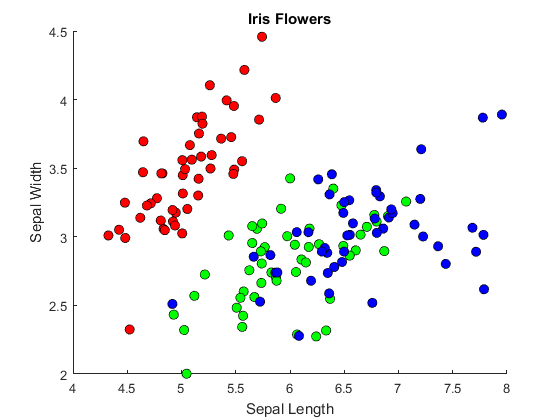
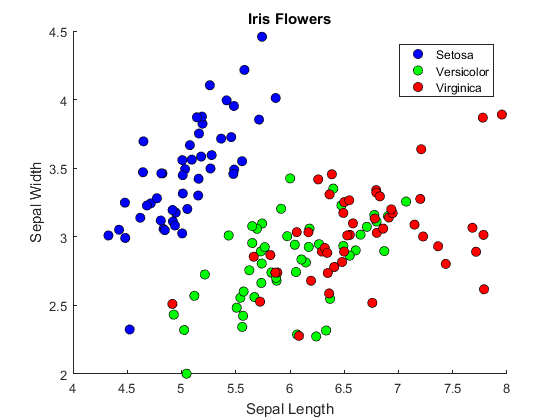
added some more to 4c and d

diff --git a/html/report.html b/html/report.html
@@ -6,7 +6,7 @@
    <!--
 This HTML was auto-generated from MATLAB code.
 To make changes, update the MATLAB code and republish this document.
-      --><title>2018 - CAB420 - Machine Learning</title><meta name="generator" content="MATLAB 9.1"><link rel="schema.DC" href="http://purl.org/dc/elements/1.1/"><meta name="DC.date" content="2018-04-15"><meta name="DC.source" content="report.m"><style type="text/css">
+      --><title>2018 - CAB420 - Machine Learning</title><meta name="generator" content="MATLAB 9.1"><link rel="schema.DC" href="http://purl.org/dc/elements/1.1/"><meta name="DC.date" content="2018-04-16"><meta name="DC.source" content="report.m"><style type="text/css">
 html,body,div,span,applet,object,iframe,h1,h2,h3,h4,h5,h6,p,blockquote,pre,a,abbr,acronym,address,big,cite,code,del,dfn,em,font,img,ins,kbd,q,s,samp,small,strike,strong,sub,sup,tt,var,b,u,i,center,dl,dt,dd,ol,ul,li,fieldset,form,label,legend,table,caption,tbody,tfoot,thead,tr,th,td{margin:0;padding:0;border:0;outline:0;font-size:100%;vertical-align:baseline;background:transparent}body{line-height:1}ol,ul{list-style:none}blockquote,q{quotes:none}blockquote:before,blockquote:after,q:before,q:after{content:'';content:none}:focus{outine:0}ins{text-decoration:none}del{text-decoration:line-through}table{border-collapse:collapse;border-spacing:0}
 
 html { min-height:100%; margin-bottom:1px; }
@@ -262,35 +262,36 @@ title(<span class="string">'Iris Flowers'</span>)
 xlabel(<span class="string">'Sepal Length'</span>)
 ylabel(<span class="string">'Sepal Width'</span>)
 hold <span class="string">on</span>
-plot(X(Y==0,1), X(Y==0,2), <span class="string">'ko'</span>, <span class="string">'markersize'</span>,7, <span class="string">'markerfacecolor'</span>, <span class="string">'red'</span>);
+plot(X(Y==0,1), X(Y==0,2), <span class="string">'ko'</span>, <span class="string">'markersize'</span>,7, <span class="string">'markerfacecolor'</span>, <span class="string">'blue'</span>);
 plot(X(Y==1,1), X(Y==1,2), <span class="string">'ko'</span>, <span class="string">'markersize'</span>,7, <span class="string">'markerfacecolor'</span>, <span class="string">'green'</span>);
-plot(X(Y==2,1), X(Y==2,2), <span class="string">'ko'</span>, <span class="string">'markersize'</span>,7, <span class="string">'markerfacecolor'</span>, <span class="string">'blue'</span>);
+plot(X(Y==2,1), X(Y==2,2), <span class="string">'ko'</span>, <span class="string">'markersize'</span>,7, <span class="string">'markerfacecolor'</span>, <span class="string">'red'</span>);
+legend(<span class="string">'Setosa'</span>, <span class="string">'Versicolor'</span>, <span class="string">'Virginica'</span>)
 hold <span class="string">off</span>
-</pre><img vspace="5" hspace="5" src="report_10.png" alt=""> <p><b>(b) Use the provided knnClassify class to learn a 1-nearest-neighbor predictor.</b></p><pre class="codeinput">k = 1
+</pre><img vspace="5" hspace="5" src="report_10.png" alt=""> <p><b>(b) Use the provided knnClassify class to learn a 1-nearest-neighbor predictor.</b></p><pre class="codeinput">k = 1;
 nnlearner = knnClassify(k, X, Y);
 class2DPlot(nnlearner, X, Y);
 title(string(k) + <span class="string">'NN Classifier'</span>);
 xlabel(<span class="string">'Sepal Length'</span>);
 ylabel(<span class="string">'Sepal Width '</span>);
-</pre><pre class="codeoutput">
-k =
-
-     1
-
-</pre><img vspace="5" hspace="5" src="report_11.png" alt=""> <p><b>(c) Do the same thing for several values of k (say, [1, 3, 10, 30]) and comment on their appearance.</b></p><pre class="codeinput">ks = [1, 3, 10, 30];
+legend(<span class="string">'Setosa'</span>, <span class="string">'Versicolor'</span>, <span class="string">'Virginica'</span>)
+</pre><img vspace="5" hspace="5" src="report_11.png" alt=""> <p><b>(c) Do the same thing for several values of k (say, [1, 3, 10, 30]) and comment on their appearance.</b></p><p><i>The higher the value of k, the smoother the desicion boundary. When k is close to 1, the classifier is prone to outliers. In general, this means that a larger value of K will likely lead to better generalisation and therefore a higher test time accuracy.</i></p><pre class="codeinput">ks = [1, 3, 10, 30];
 <span class="keyword">for</span> i=1:length(ks)
     learner = knnClassify(ks(i), X, Y);
     class2DPlot(learner, X, Y);
     title(string(ks(i)) + <span class="string">'NN Classifier'</span>);
     xlabel(<span class="string">'Sepal Length'</span>);
     ylabel(<span class="string">'Sepal Width '</span>);
+    legend(<span class="string">'Setosa'</span>, <span class="string">'Versicolor'</span>, <span class="string">'Virginica'</span>)
 <span class="keyword">end</span>
-</pre><img vspace="5" hspace="5" src="report_12.png" alt=""> <img vspace="5" hspace="5" src="report_13.png" alt=""> <img vspace="5" hspace="5" src="report_14.png" alt=""> <img vspace="5" hspace="5" src="report_15.png" alt=""> <p><b>(d) Now split the data into an 80/20 training/validation split. For <img src="report_eq03434794804198128651.png" alt="$k = [1, 2, 5, 10, 50, 100, 200]$">, learn a model on the 80% and calculate its performance (# of data classified incorrectly) on the validation data. What value of k appears to generalize best given your training data? Comment on the performance at the two endpoints, in terms of over- or under-fitting.</b></p><pre class="codeinput">split = 0.8; train_size = floor(split*m);
+</pre><img vspace="5" hspace="5" src="report_12.png" alt=""> <img vspace="5" hspace="5" src="report_13.png" alt=""> <img vspace="5" hspace="5" src="report_14.png" alt=""> <img vspace="5" hspace="5" src="report_15.png" alt=""> <p><b>(d) Now split the data into an 80/20 training/validation split. For <img src="report_eq03434794804198128651.png" alt="$k = [1, 2, 5, 10, 50, 100, 200]$">, learn a model on the 80% and calculate its performance (# of data classified incorrectly) on the validation data. What value of k appears to generalize best given your training data? Comment on the performance at the two endpoints, in terms of over- or under-fitting.</b></p><p><i>k=10 to k=50 appears to generalize best on the training data. When k is near 1, the classifier overfits to the training data (k=1 has an accuracy of 1.0) when k gets too large however, the classifier underfits. When over fitting/underfitting occur depend on the size and shape of the dataset.</i></p><pre class="codeinput">split = 0.8; train_size = floor(split*m);
 
 Xtrain = X(1:train_size,:);
 Ytrain = Y(1:train_size,:);
 Xtest = X(train_size+1:end,:);
 Ytest = Y(train_size+1:end,:);
+
+figure(<span class="string">'name'</span>, <span class="string">'Errors vs K'</span>);
+hold <span class="string">on</span>
 
 ks = [1, 2, 5, 10, 50, 100, 200];
 errors = [];
@@ -299,8 +300,7 @@ errors = [];
     Yhat = predict(learner, Xtest);
     errors = [errors, sum(Yhat ~= Ytest)];
 <span class="keyword">end</span>
-figure(<span class="string">'name'</span>, <span class="string">'Errors vs K'</span>);
-hold <span class="string">on</span>
+
 title(<span class="string">'Errors vs K Using Iris Dataset'</span>);
 xlabel(<span class="string">'K'</span>);
 ylabel(<span class="string">'Errors'</span>);
@@ -623,24 +623,32 @@ title('Iris Flowers')
 xlabel('Sepal Length')
 ylabel('Sepal Width')
 hold on
-plot(X(Y==0,1), X(Y==0,2), 'ko', 'markersize',7, 'markerfacecolor', 'red');
+plot(X(Y==0,1), X(Y==0,2), 'ko', 'markersize',7, 'markerfacecolor', 'blue');
 plot(X(Y==1,1), X(Y==1,2), 'ko', 'markersize',7, 'markerfacecolor', 'green');
-plot(X(Y==2,1), X(Y==2,2), 'ko', 'markersize',7, 'markerfacecolor', 'blue');
+plot(X(Y==2,1), X(Y==2,2), 'ko', 'markersize',7, 'markerfacecolor', 'red');
+legend('Setosa', 'Versicolor', 'Virginica')
 hold off
 
 %%
 % *(b) Use the provided knnClassify class to learn a 1-nearest-neighbor
 % predictor.*
-k = 1
+k = 1;
 nnlearner = knnClassify(k, X, Y);
 class2DPlot(nnlearner, X, Y);
 title(string(k) + 'NN Classifier');
 xlabel('Sepal Length');
 ylabel('Sepal Width ');
+legend('Setosa', 'Versicolor', 'Virginica')
 
 %%
 % *(c) Do the same thing for several values of k (say, [1, 3, 10, 30]) and
 % comment on their appearance.*
+%
+% _The higher the value of k, the smoother the desicion boundary. When k is
+% close to 1, the classifier is prone to outliers. In general, this means
+% that a larger value of K will likely lead to better generalisation and 
+% therefore a higher test time accuracy._
+
 ks = [1, 3, 10, 30];
 for i=1:length(ks)
     learner = knnClassify(ks(i), X, Y);
@@ -648,6 +656,7 @@ for i=1:length(ks)
     title(string(ks(i)) + 'NN Classifier');
     xlabel('Sepal Length');
     ylabel('Sepal Width ');
+    legend('Setosa', 'Versicolor', 'Virginica')
 end
 
 %%
@@ -657,6 +666,14 @@ end
 % data. What value of k appears to generalize best given your training
 % data? Comment on the performance at the two endpoints, in terms of over-
 % or under-fitting.*
+%
+% _k=10 to k=50 appears to generalize best on the training data. When k is
+% near 1, the classifier overfits to the training data (k=1 has an accuracy of
+% 1.0) when k gets too large however, the classifier underfits. When 
+% over fitting/underfitting occur depend on the size and shape of the
+% dataset._
+%
+%
 
 split = 0.8; train_size = floor(split*m);
 
@@ -665,6 +682,9 @@ Ytrain = Y(1:train_size,:);
 Xtest = X(train_size+1:end,:);
 Ytest = Y(train_size+1:end,:);
 
+figure('name', 'Errors vs K');
+hold on
+
 ks = [1, 2, 5, 10, 50, 100, 200];
 errors = [];
 for i=1:length(ks)
@@ -672,8 +692,7 @@ for i=1:length(ks)
     Yhat = predict(learner, Xtest);
     errors = [errors, sum(Yhat ~= Ytest)];
 end
-figure('name', 'Errors vs K');
-hold on
+
 title('Errors vs K Using Iris Dataset');
 xlabel('K');
 ylabel('Errors');
